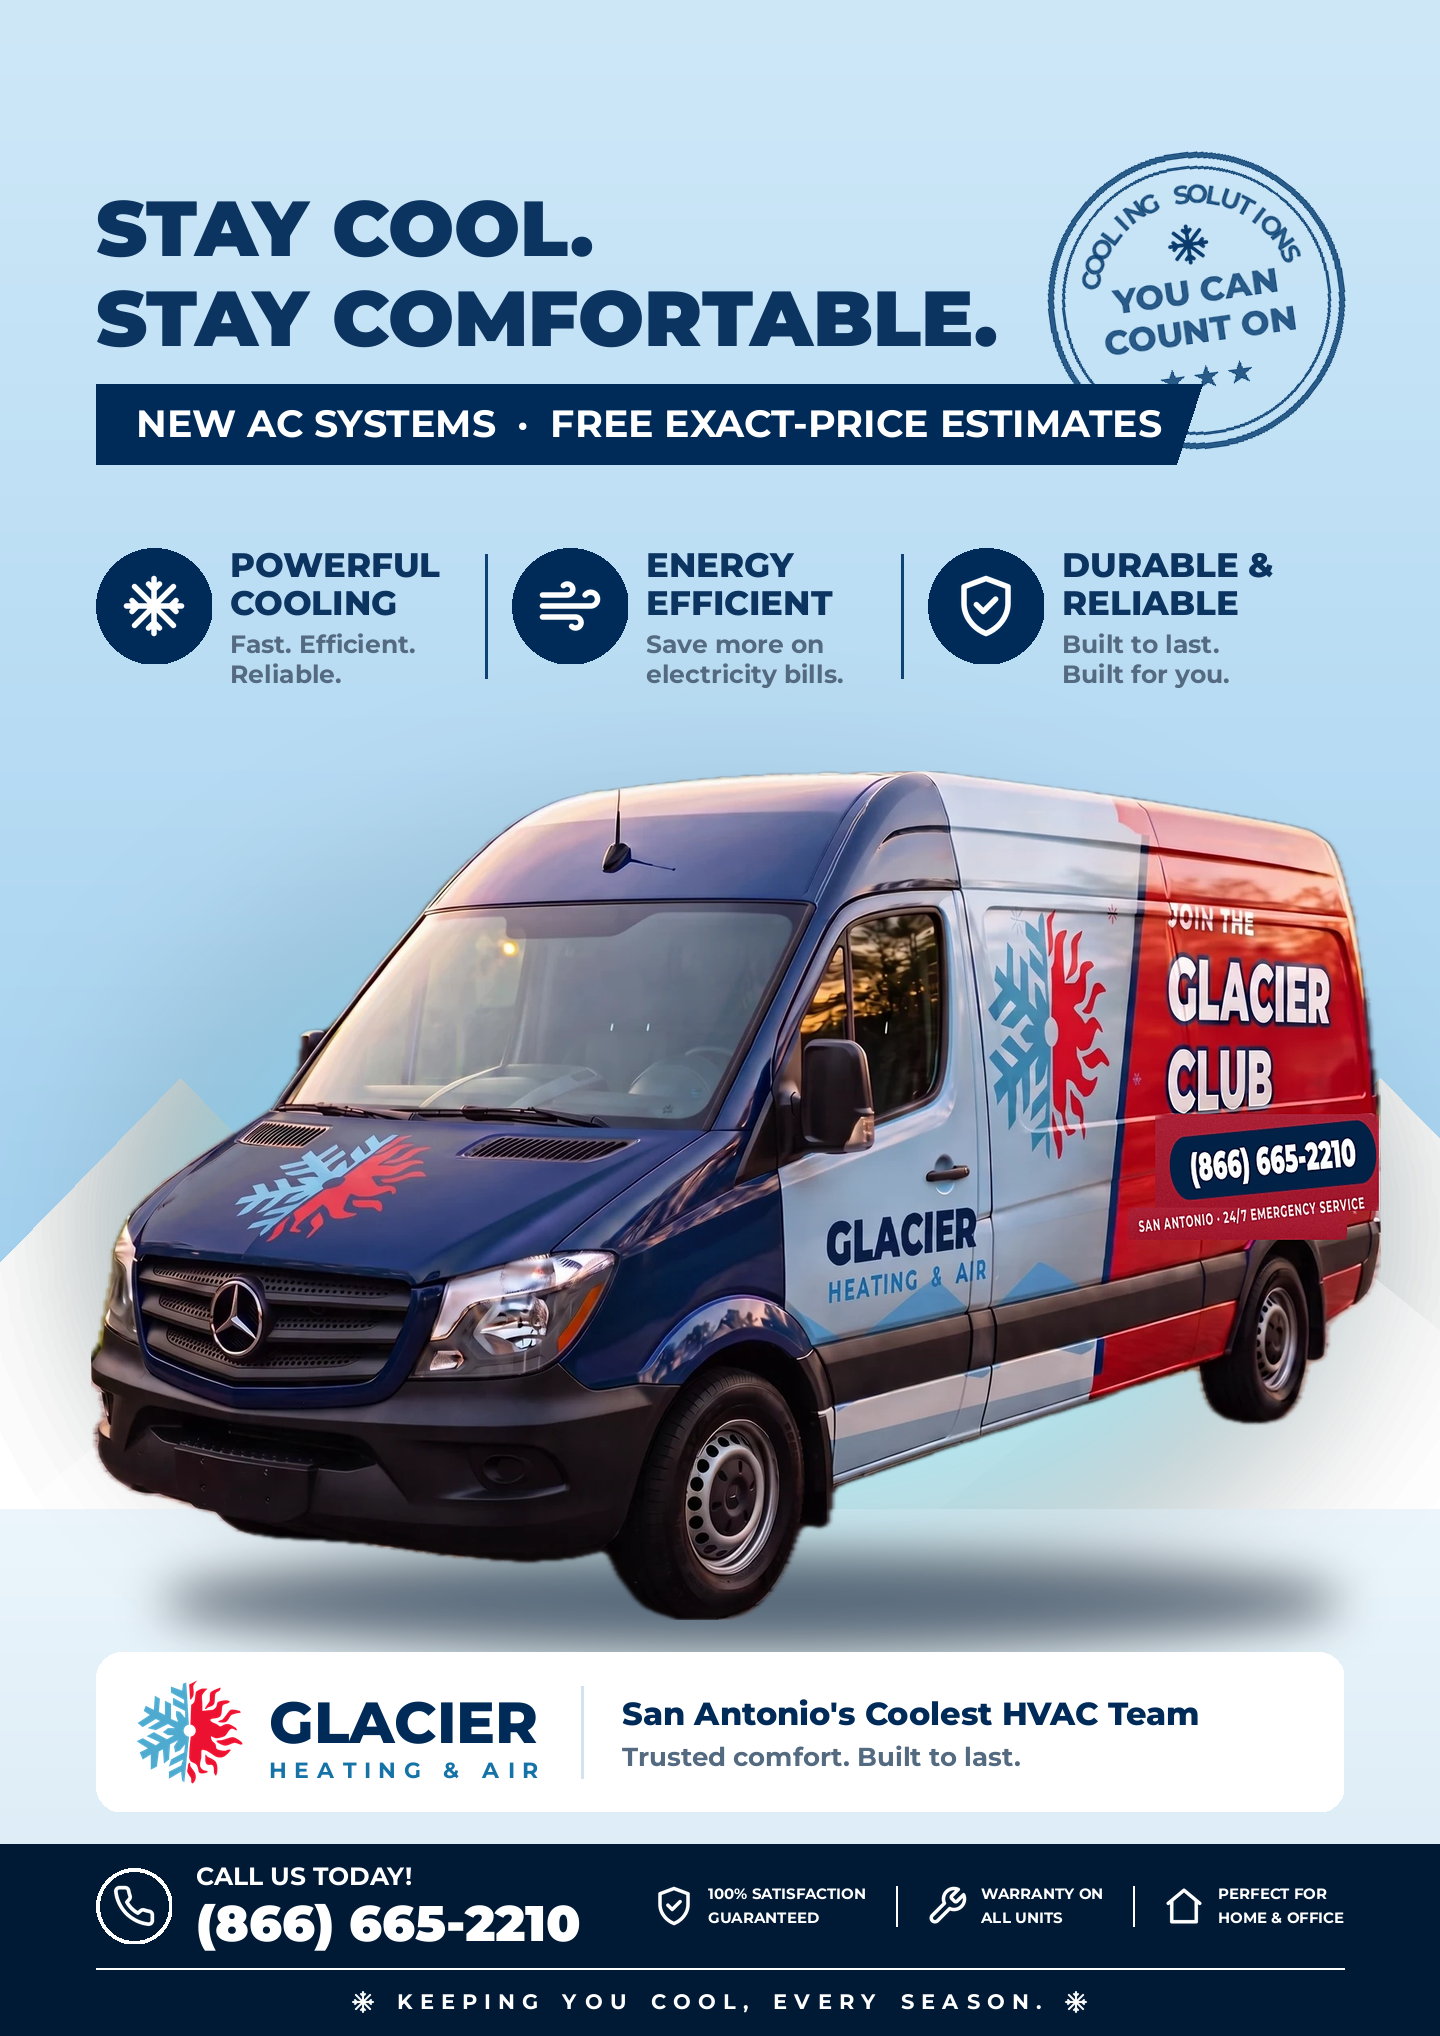
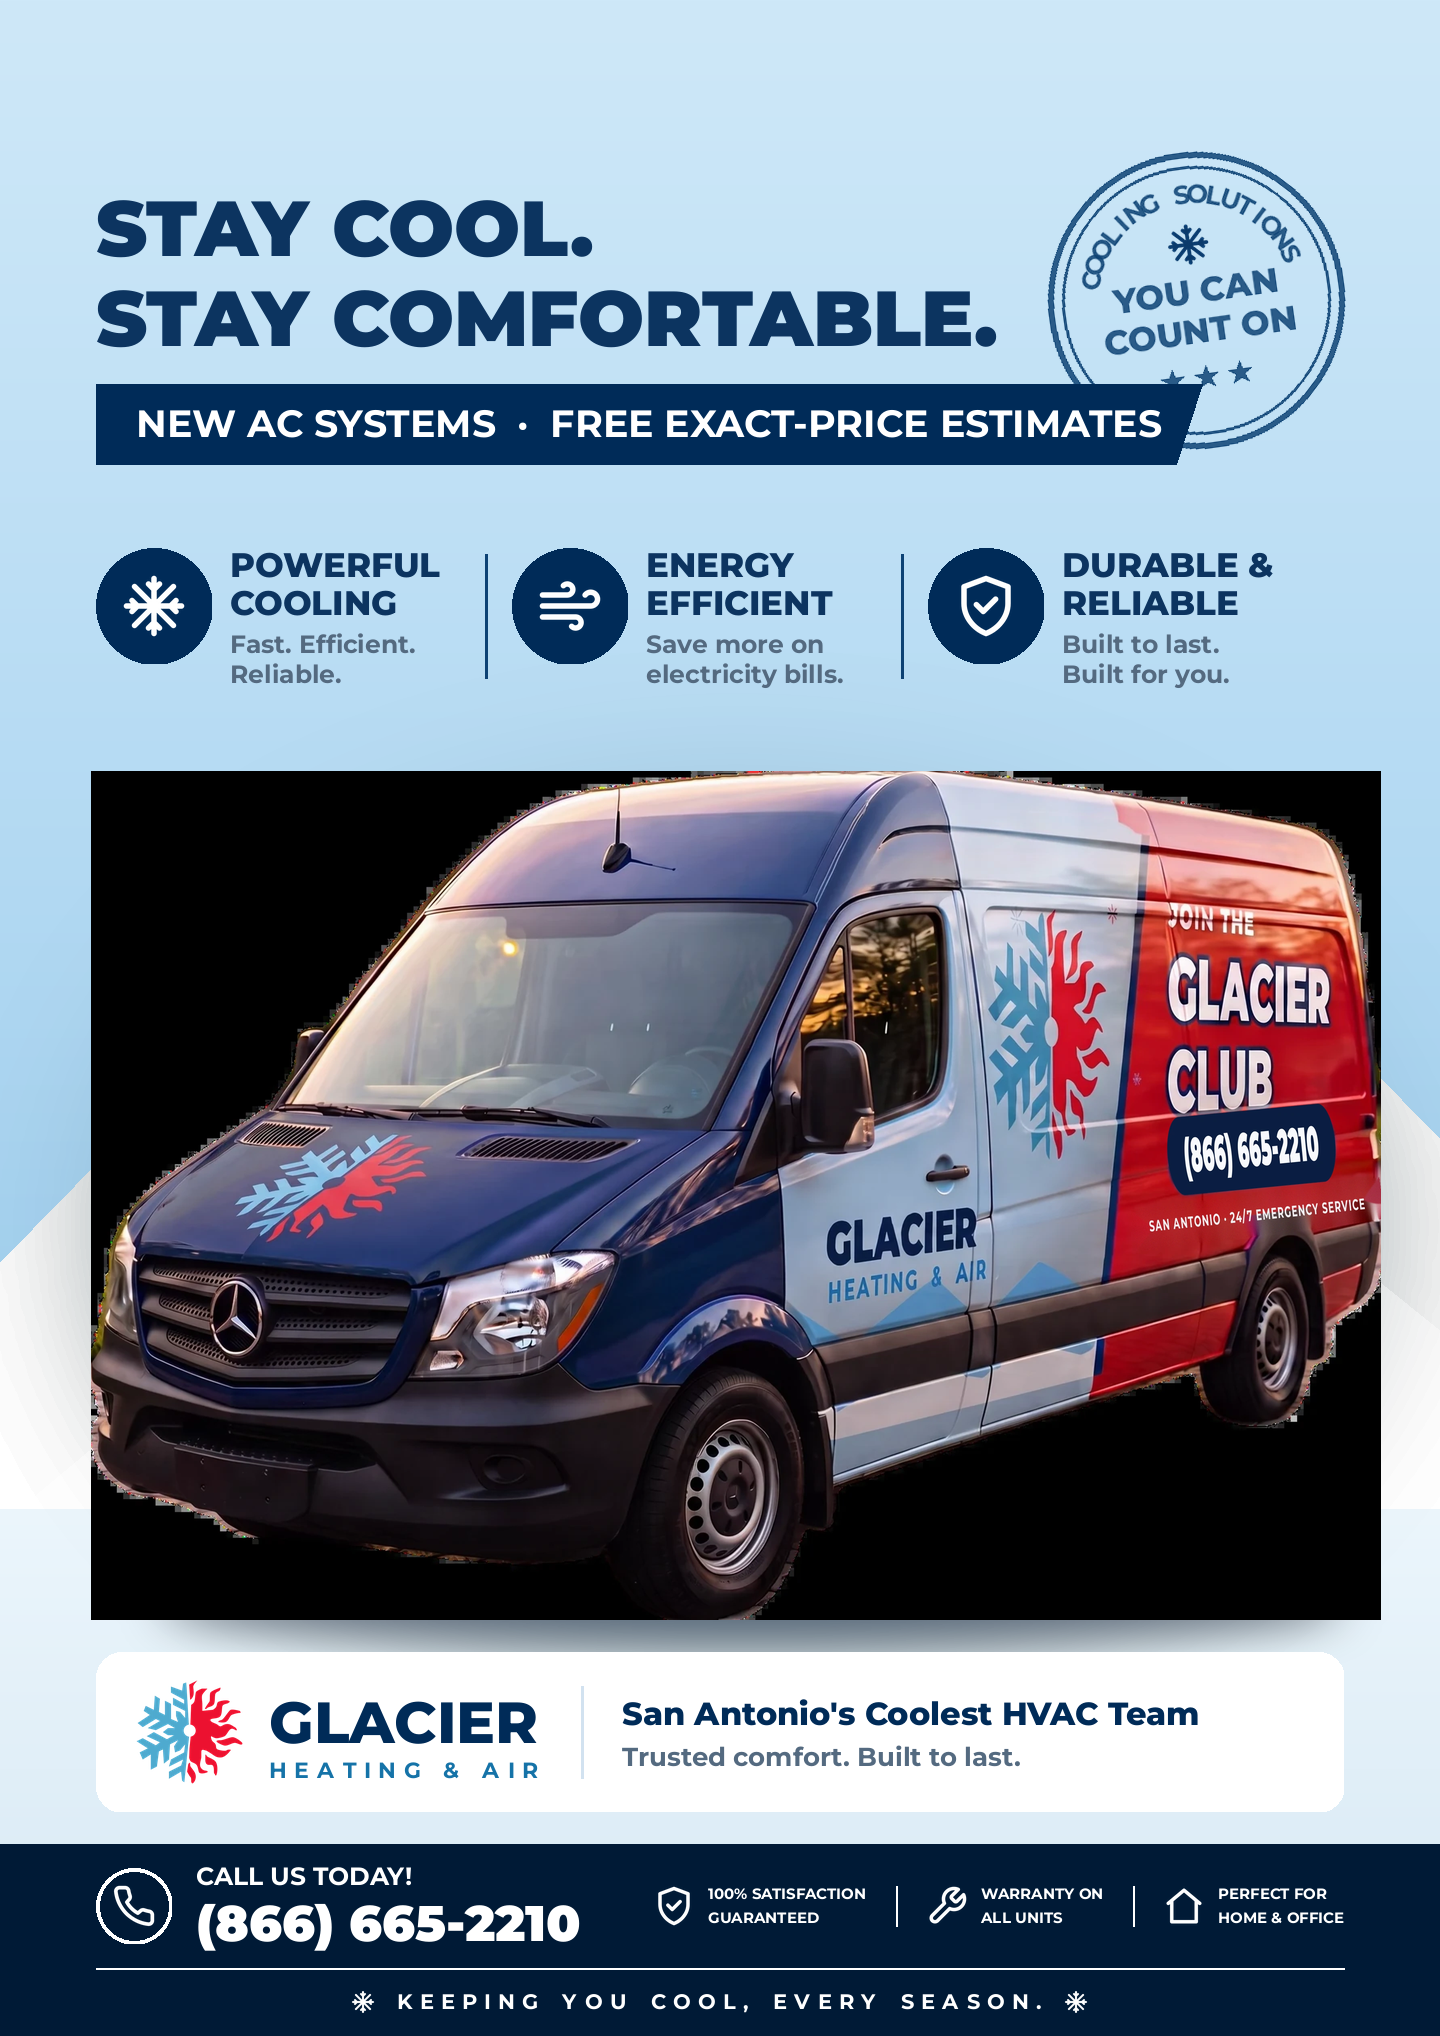
2x EDSR super-resolved van + patch-free wrap repaint (eclipse pill, tilted-band inpaint, grain match)
Claude-Session: https://claude.ai/code/session_0176LFk56ELEVayoECBSNudw

Changed region(s): [[0.5, 0.3713, 0.9688, 0.8045], [0.0625, 0.3713, 0.5312, 0.8045]]

diff --git a/glacier-site/scratchpad/fix_van_phone_2x_v3.py b/glacier-site/scratchpad/fix_van_phone_2x_v3.py
@@ -1,0 +1,88 @@
+"""v3: patch-free pill (new pill fully eclipses the old one) + guarded inpaint
+for the fine-print strip only. Everything measured from the pixels."""
+from PIL import Image, ImageDraw, ImageFont, ImageFilter
+import numpy as np, cv2
+
+SS = 4
+van = Image.open("scratchpad/van-2x.png").convert("RGBA")
+a = np.array(van.convert("RGB")).astype(int)
+
+# ---------- measure the old pill ----------
+w0, w1, h0, h1 = 2620, 3200, 830, 1100
+win = a[h0:h1, w0:w1]
+navy = (win[:,:,2] > win[:,:,0]+25) & (win[:,:,0] < 60)
+ys, xs = np.where(navy)
+ox0, ox1, oy0, oy1 = w0+xs.min(), w0+xs.max(), h0+ys.min(), h0+ys.max()
+ocx, ocy = (ox0+ox1)//2, (oy0+oy1)//2
+print(f"old pill x {ox0}..{ox1} y {oy0}..{oy1} center ({ocx},{ocy}) size {ox1-ox0}x{oy1-oy0}")
+
+# ---------- measure old fine print ----------
+fw = a[1020:1170, 2560:3200]
+white = fw.sum(axis=2) > 560
+fys, fxs = np.where(white)
+fx0, fx1, fy0, fy1 = 2560+fxs.min(), 2560+fxs.max(), 1020+fys.min(), 1020+fys.max()
+fcx, fcy = (fx0+fx1)//2, (fy0+fy1)//2
+print(f"old fine print x {fx0}..{fx1} y {fy0}..{fy1} center ({fcx},{fcy})")
+
+# ---------- guarded inpaint of the fine print strip ----------
+bgr = cv2.cvtColor(np.array(van.convert("RGB")), cv2.COLOR_RGB2BGR)
+red_med = np.median(a[820:850, 2700:3120].reshape(-1,3), axis=0)[::-1]  # BGR
+guard = bgr.copy()
+gy0 = fy1 + 10
+guard[gy0:gy0+120, fx0-40:fx1+40] = red_med          # block fender darkness below
+guard[fy0-40:fy1+40, fx1+20:fx1+140] = red_med       # block trim to the right
+mask = np.zeros(bgr.shape[:2], np.uint8)
+cv2.rectangle(mask, (fx0-14, fy0-14), (fx1+14, fy1+14), 255, -1)
+out = cv2.inpaint(guard, mask, 5, cv2.INPAINT_TELEA)
+# keep inpainted pixels only inside the mask; guards revert to original
+res = np.where(mask[:,:,None] == 255, out, bgr)
+van = Image.fromarray(cv2.cvtColor(res.astype("uint8"), cv2.COLOR_BGR2RGB)).convert("RGBA")
+
+# ---------- new pill: same center/tilt as old, +margin so it fully covers ----------
+NAVY = (10, 30, 66, 255)
+PILL_W = (ox1-ox0) + 18            # eclipse with margin
+PILL_H = (oy1-oy0) + 14
+txt = "(866) 665-2210"
+fB = ImageFont.truetype("/tmp/mfonts/Montserrat-Black.ttf", 64*2*SS)
+natW, natH = 620*2*SS, 124*2*SS
+nat = Image.new("RGBA", (natW, natH), (0,0,0,0))
+nd = ImageDraw.Draw(nat)
+nd.rounded_rectangle([8*SS, 20*SS, natW-8*SS, natH-20*SS], radius=104*SS, fill=NAVY)
+bb  = nd.textbbox((0,0), txt, font=fB)
+bbd = nd.textbbox((0,0), "8666652210", font=fB)
+tx = (natW-(bb[2]-bb[0]))/2 - bb[0]
+ty = natH/2 - (bbd[3]-bbd[1])/2 - bbd[1]
+nd.text((tx, ty), txt, font=fB, fill=(247,249,252,255))
+na = np.array(nat)
+pill_cols = np.where((na[:,:,3]>128).any(axis=0))[0]
+ink = (na[:,:,0]>200)&(na[:,:,3]>128)
+ink_cols = np.where(ink.any(axis=0))[0]
+shift = ((pill_cols[-1]-ink_cols[-1]) - (ink_cols[0]-pill_cols[0]))//2
+if abs(shift) > 2:
+    nat = Image.new("RGBA",(natW,natH),(0,0,0,0))
+    nd = ImageDraw.Draw(nat)
+    nd.rounded_rectangle([8*SS,20*SS,natW-8*SS,natH-20*SS],radius=104*SS,fill=NAVY)
+    nd.text((tx+shift,ty),txt,font=fB,fill=(247,249,252,255))
+print("pill ink shift", shift)
+tile = nat.resize((PILL_W*SS, PILL_H*SS), Image.LANCZOS)
+tile = tile.rotate(5.5, resample=Image.BICUBIC, expand=True)
+tile = tile.resize((tile.width//SS, tile.height//SS), Image.LANCZOS)
+van.alpha_composite(tile, (ocx-tile.width//2, ocy-tile.height//2))
+
+# ---------- new fine print at the old center ----------
+fb2 = ImageFont.truetype("/tmp/mfonts/Montserrat-Bold.ttf", 34*2*SS)
+line = "SAN ANTONIO · 24/7 EMERGENCY SERVICE"
+t2 = Image.new("RGBA", (1150*2*SS, 48*2*SS), (0,0,0,0))
+t2d = ImageDraw.Draw(t2)
+x = 0
+for c in line:
+    if c==' ': x += 12*2*SS; continue
+    t2d.text((x, 4*2*SS), c, font=fb2, fill=(243,246,249,250))
+    bbc = t2d.textbbox((0,0), c, font=fb2); x += bbc[2]-bbc[0]+3*2*SS
+t2 = t2.crop((0,0,x+8,48*2*SS)).resize(((fx1-fx0)*SS, 56*SS), Image.LANCZOS)
+t2 = t2.rotate(6, resample=Image.BICUBIC, expand=True)
+t2 = t2.resize((t2.width//SS, t2.height//SS), Image.LANCZOS)
+van.alpha_composite(t2, (fcx-t2.width//2, fcy-t2.height//2))
+
+van.convert("RGB").save("public/van.webp", "WEBP", quality=95, method=6)
+print("v3 done", van.size)
